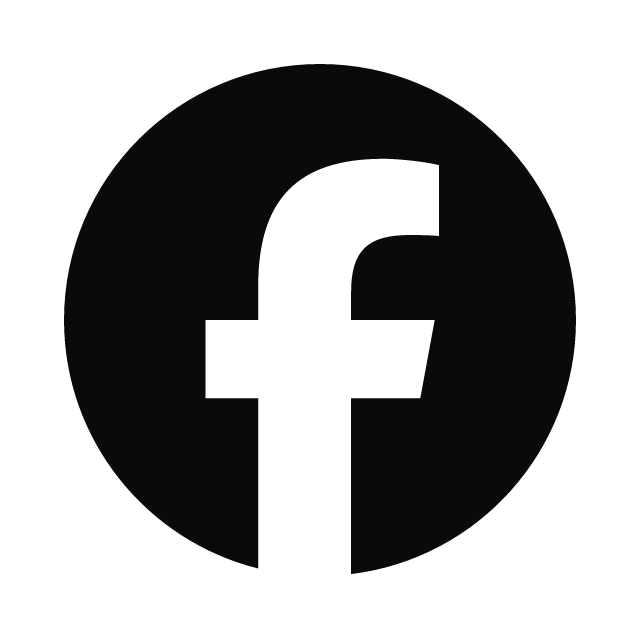
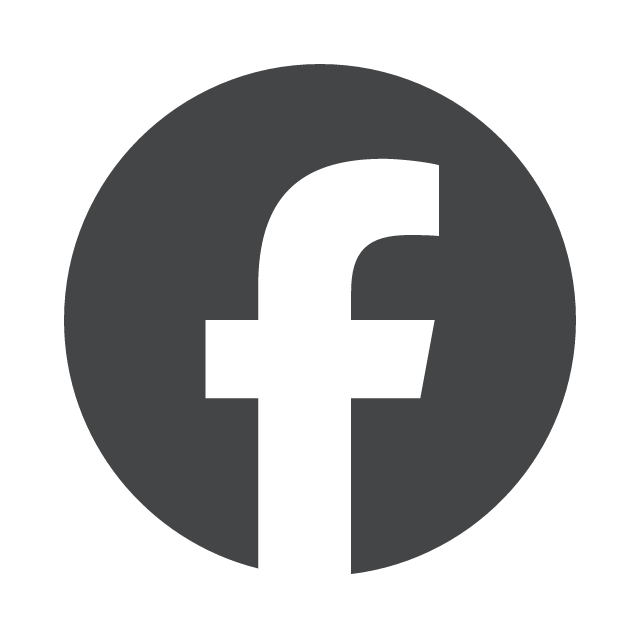
ajustes de icones redes sociais

diff --git a/src/partials/rodape.html b/src/partials/rodape.html
@@ -47,7 +47,7 @@
     </div>
 
     <div class="itens_autoral">
-        <p>&copy; 2026 Atelier Shine Silk. Todos os direitos reservados. Desenvolvido por - <a
+        <p class="texto_autoral">&copy; 2026 Atelier Shine Silk. Todos os direitos reservados. Desenvolvido por - <a
                 href="https://github.com/orgs/Senac-TI-32/teams/codemaster" target="_blank">CODE MASTER <span
                     style="font-style: italic;color: var(--cor-destaque);">agency</span></a></p>
     </div>

diff --git a/src/css/rodape.css b/src/css/rodape.css
@@ -55,6 +55,11 @@
     margin: 10px 0px;
 }
 
+.texto_autoral{
+    color: #333;
+}
+
+
 
 .img_social{
     width: 30px;

diff --git a/src/css/responsivo.css b/src/css/responsivo.css
@@ -520,6 +520,7 @@
         margin: 15px 0px;
     }
 
+    
 
 
 

diff --git a/src/css/base.css b/src/css/base.css
@@ -21,8 +21,6 @@
 
 
 
-
-
 * {
     margin: 0;
     padding: 0;
